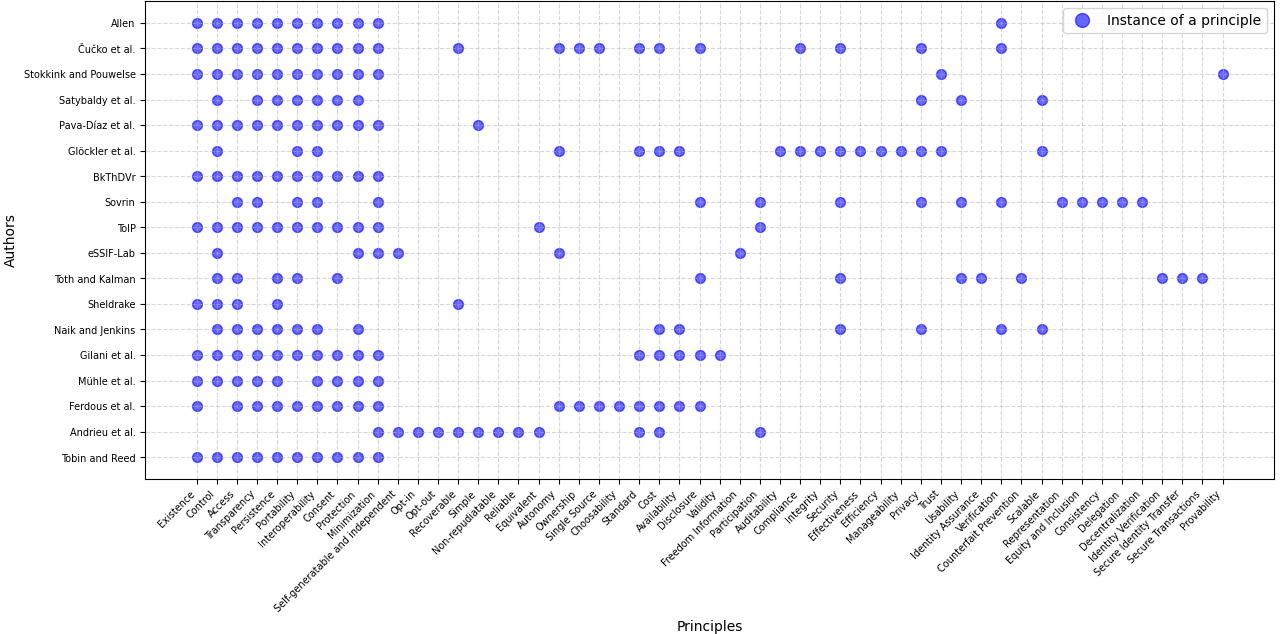
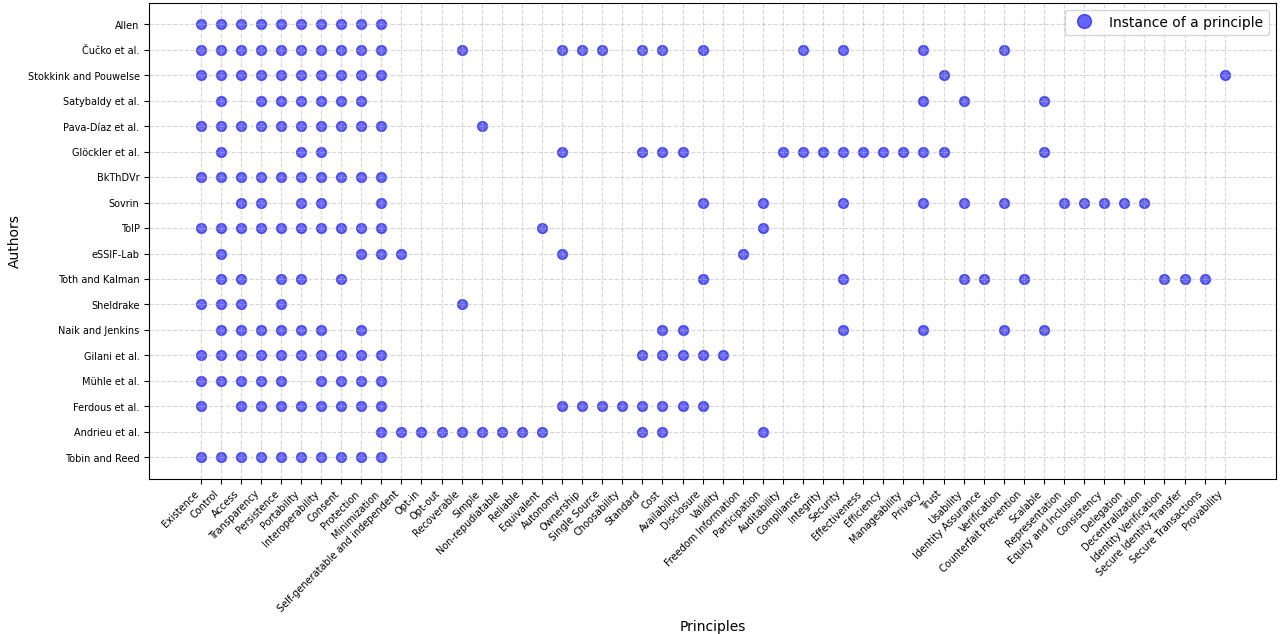
.

diff --git a/definition/program/recording_of_principles/Principles_recording_all.py b/definition/program/recording_of_principles/Principles_recording_all.py
@@ -65,7 +65,7 @@ additional_matrix = [
     [0,0,0,0,0,0,0,0,0,0,0,0,1,0,0,1,0,0],  # Trust
     [0,0,0,0,0,0,0,1,0,0,1,0,0,0,1,0,0,0],  # Usability
     [0,0,0,0,0,0,0,1,0,0,0,0,0,0,0,0,0,0],  # Identity Assurance
-    [0,0,0,0,0,1,0,0,0,0,1,0,0,0,0,0,1,1],  # Verification
+    [0,0,0,0,0,1,0,0,0,0,1,0,0,0,0,0,1,0],  # Verification
     [0,0,0,0,0,0,0,1,0,0,0,0,0,0,0,0,0,0],  # Counterfeit Prevention
     [0,0,0,0,0,1,0,0,0,0,0,0,1,0,1,0,0,0],  # Scalable
     [0,0,0,0,0,0,0,0,0,0,1,0,0,0,0,0,0,0],  # Representation

diff --git a/definition/Definition.md b/definition/Definition.md
@@ -64,15 +64,27 @@ Together, these libraries are frequently used in data visualization and analysis
 
 ### 1.3.1 Recording of properties
 
-Table 1 summarizes the names of the properties and contributions identified through the search and screening process. The rows represent principles of SSI, while the columns correspond to contributions. Our literature review examined a total of 18 relevant works in the field of identity, covering 52 properties. The checkmarks indicate the properties addressed by the respective author(s). Notably, some works propose alternative sets of principles, and variations in naming conventions can be observed across different authors.
+Table 1 reports the lable of properties with the lens of contributions. The rows represent principles of SSI, while the columns correspond to contributions or authors. Our literature review examined a total of 18 relevant works in the field of identity, covering 52 properties. The checkmarks indicate the properties addressed by the respective author(s). Notably, some works propose alternative sets of principles, and variations in naming conventions can be observed across different authors.
 
 [Click to view the table 1.](https://cristianlepore.github.io/Self-Sovereign-Identity/definition/tables/principles/Principles1.html) *Comparison of identified properties in various sources.*
 [Table 1 alternative version.](https://cristianlepore.github.io/Self-Sovereign-Identity/definition/tables/principles/Principles2.html) *Alternative view of Table 1. It conveys the same information.*
 
-![Occurrences of all works and principles](/definition/images/principles_recording/Principles_recording.png)
-*Figure 1: The number of principles by author.*
+The same table is reported in Figure 1. The chart is a dot matrix plot that visualizes the distribution of principles between authors and is instrumetal to visualize future relationships. Indeed, we will use the same chart for the ret of our exercise. The y-axis lists different authors, while the x-axis lists the principles from authors, covering aspects such as transparency, privacy, security, autonomy, and decentralization. Each blue dot signifies an instance where an author has referenced or included a particular principle in their work. A first peek shows that some authors cited a broad spectrum of principles, while others focus on a select few. Certain principles, such as transparency, privacy, security, and interoperability, appear frequently, indicating their fundamental importance. In contrast, other principles have fewer references, suggesting they are either emerging concepts or less widely recognized. Clusters of dots for specific principles across multiple authors highlight areas of consensus, while sparsely populated areas suggest differences in perspectives. Overall, the chart provides a structured overview of how different principles are adopted across multiple studies or frameworks, showing both commonalities and variations in their recognition and application.
+
+The chart is a dot matrix plot that visually represents the relationship between various authors and principles, offering insights into the frequency and distribution of specific principles across different sources. The y-axis lists authors, likely representing researchers, organizations, or institutions that have contributed to discussions or frameworks related to these principles. The x-axis enumerates a broad set of principles, which appear to be related to digital identity, self-sovereign identity (SSI), data management, or security frameworks. These principles cover fundamental aspects such as **existence, transparency, privacy, security, interoperability, autonomy, decentralization, accountability, compliance, trust, and equity**. Each blue dot signifies an instance where a particular principle has been cited, endorsed, or discussed by an author.
+
+From a structural perspective, some authors cite a wide range of principles, suggesting a comprehensive approach to their work, while others focus on a select few, indicating specialization in specific areas. Certain principles, such as **transparency, privacy, security, and interoperability**, are frequently referenced across multiple authors, highlighting their universal relevance in the field. Other principles, such as **counterfeit prevention, recoverability, and provability**, appear less frequently, implying they may be emerging considerations or specialized topics with less consensus.
+
+Patterns within the chart reveal areas of agreement and divergence among authors. Principles with a high density of dots across multiple authors suggest a strong consensus on their importance, while those with scattered or isolated references indicate areas where perspectives vary. Some principles cluster together, possibly indicating conceptual overlaps or interdependencies among them. Additionally, some authors appear to emphasize principles related to governance and compliance, while others prioritize technical aspects like security and identity verification.
+
+Overall, this chart provides a structured and comparative overview of principle adoption across multiple frameworks or studies. It highlights key areas of agreement, identifies emerging or less common principles, and offers insights into how different perspectives shape the discourse around identity, security, and governance principles. The visualization effectively conveys how various authors contribute to this evolving landscape, revealing both widely accepted foundations and areas that require further discussion and standardization.
+
+![Occurrences of principles mentioned by author](/definition/images/principles_recording/Principles_recording.png)
+*Figure 1: The distribution of principles among authors.*
 
 ### 1.3.2 Merging
+
+REMOVE NOISE; REMOVE DUPLICATE AND REDUNDANT ENTRIES
 
 Difference in the naming of properties across various authors can be observed. However, many of these properties convey the same or similar meanings. To avoid pitfalls, Figure 2 provides a holistic view of how different authors conceptualize identity properties, showing their overlaps and interconnections. The image presents a causal loop diagram illustrating the relationships between various properties of identity systems as defined by different authors, using overlapping colored regions to represent different contributions: Gray (Allen),[^allen] Blue (Toth and Kalman),[^toth] Green (Ferdous et al.),[^ferdous] Orange (Sovrin),[^sovrin] Yellow (Andrieu et al.),[^andrieu] and Red (Stokkink and Pouwelse).[^stokkink] The diagram maps key identity properties such as security, privacy, decentralization, and verifiability, with arrows indicating their interdependencies. On the right, a modified properties list enumerates 11 essential identity system attributes, including existence and representation, ownership and control, access and availability, portability, interoperability, consent, security and protection, privacy and minimal disclosure, usability and consistency, decentralization and autonomy, and verifiability and authenticity.
 
